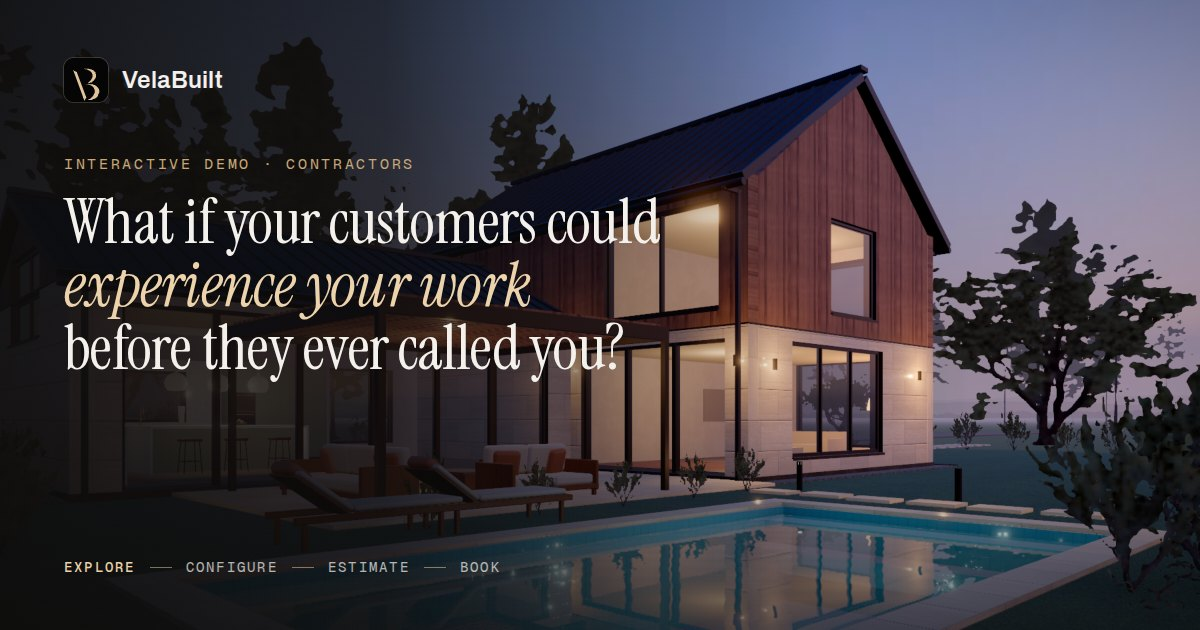
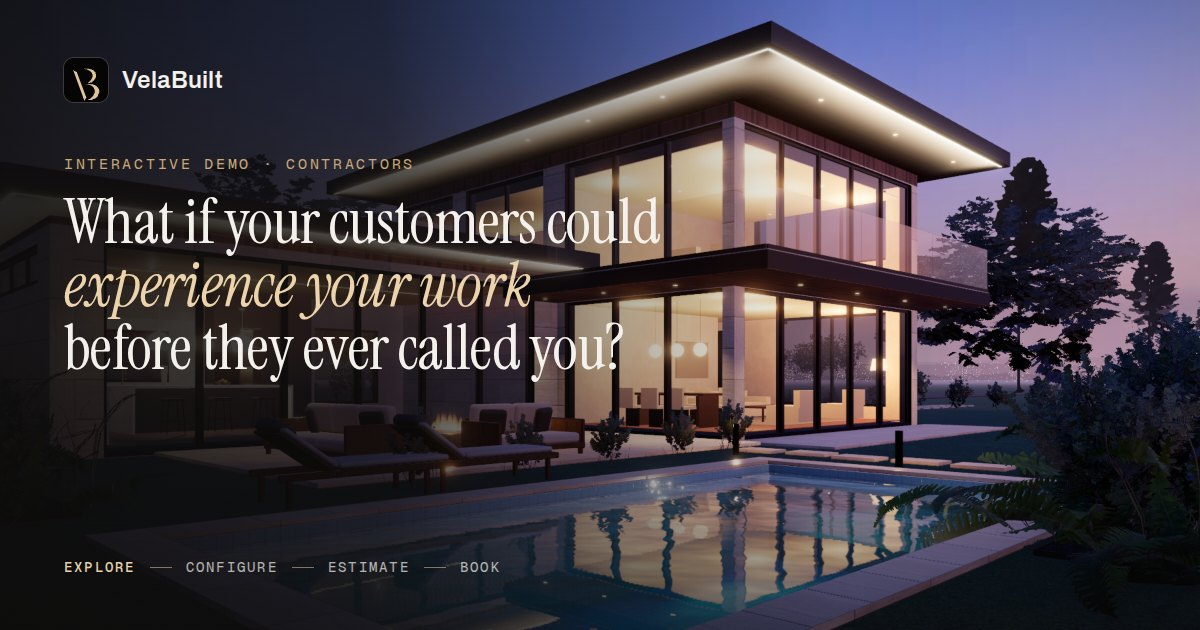
Share image and no-WebGL poster from the finished dusk scene
Re-rendered from the live scene (slim lit roof edges, cedar soffits, the
fire table on the terrace). The share image's alt text now describes the
glass house instead of the old roof split.

Claude-Session: https://claude.ai/code/session_01AzmeoSPJzvBpEdmqpxYcPo

diff --git a/app/layout.tsx b/app/layout.tsx
@@ -55,7 +55,7 @@ export const metadata: Metadata = {
         width: 1200,
         height: 630,
         type: "image/jpeg",
-        alt: "A house split down the middle: the old mossy roof on one side, the new standing-seam roof and its estimate on the other — The Future of Contractor Sales, an interactive demo by VelaBuilt",
+        alt: "A modern two-storey glass house at blue hour, lit from inside and reflected in its pool, under the headline: What if your customers could experience your work before they ever called you? — an interactive demo by VelaBuilt",
       },
     ],
   },
